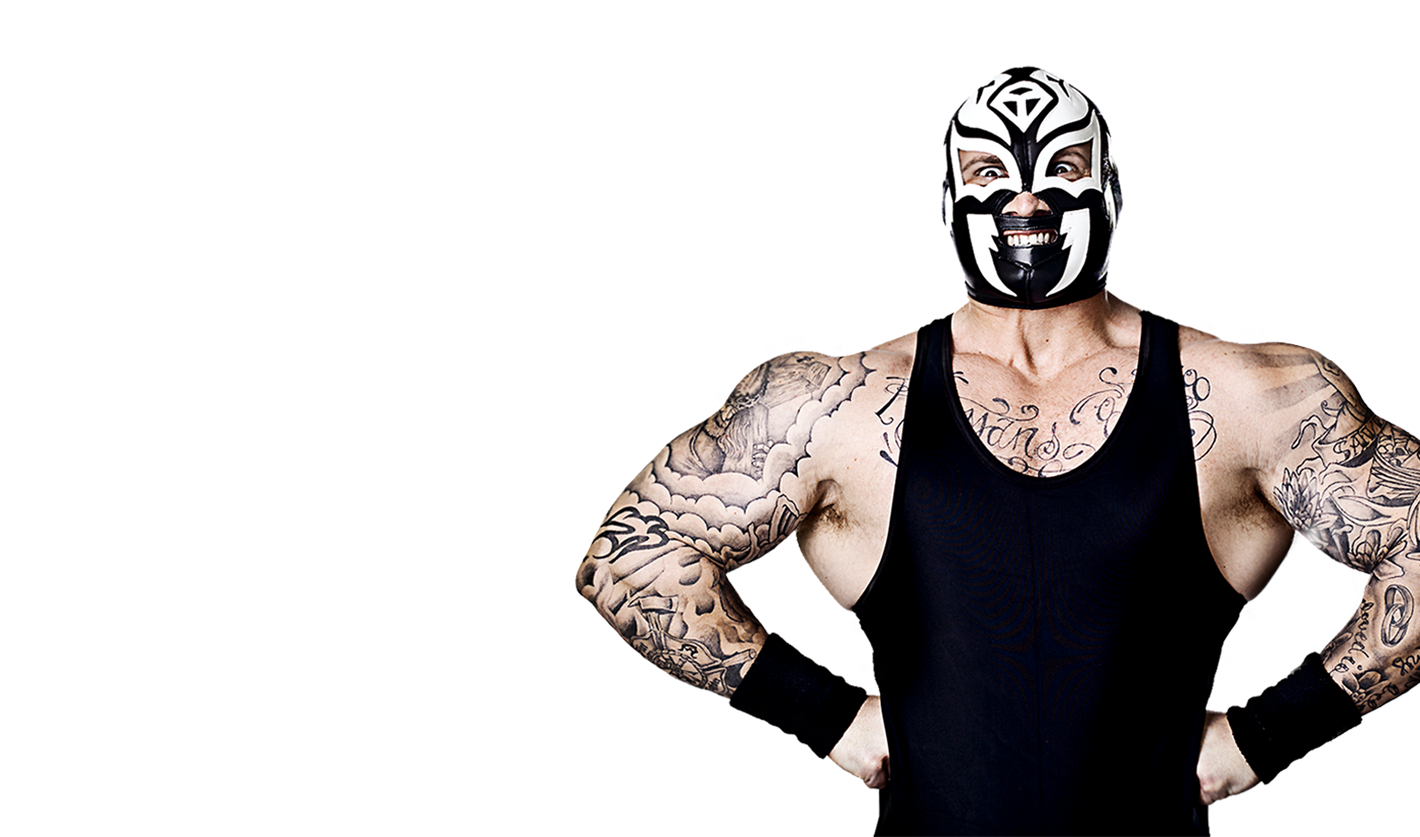
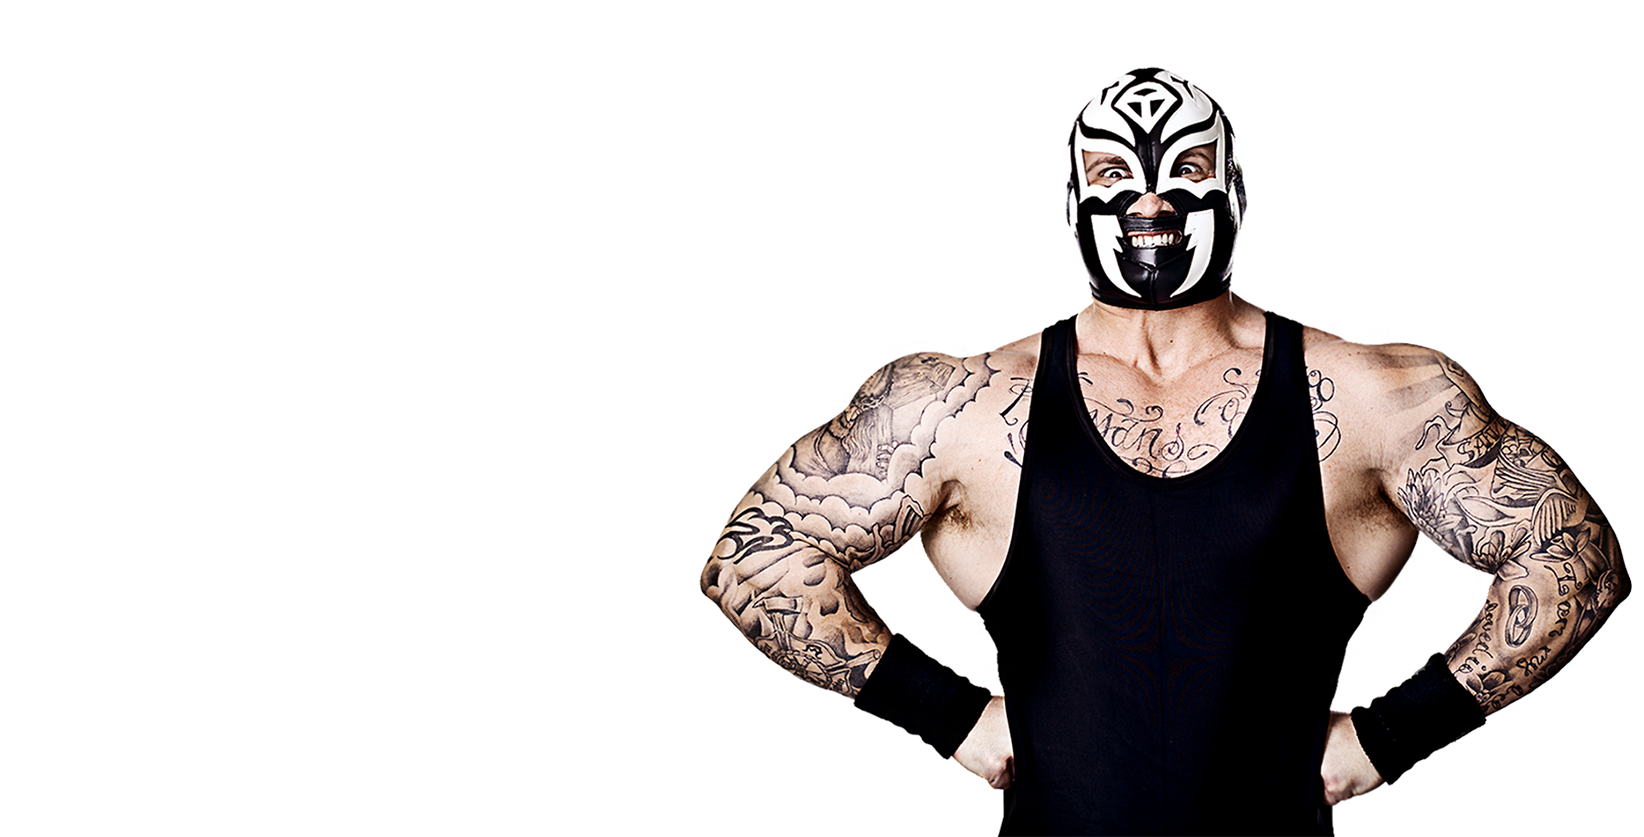
Updated Lucha home image

Changed region(s): [[0.4028, 0.0621, 1.0, 1.0], [0.7437, 0.7455, 0.7746, 0.8076]]

diff --git a/site/stylesheets/screen.css b/site/stylesheets/screen.css
@@ -235,7 +235,7 @@ h2.home_headline {
 
 /* line 146 */
 .lucha_home {
-  background: url("../images/lucha_home_large_temp.png") no-repeat top center;
+  background: url("../images/lucha_home_large.png") no-repeat top center;
   margin: 0 auto;
   min-width: 1024px;
   min-height: 837px;

diff --git a/src/stylesheets/screen.sass b/src/stylesheets/screen.sass
@@ -144,7 +144,7 @@ h2.home_headline
   margin: 75px 0 42px 0
   
 .lucha_home
-  background: url('../images/lucha_home_large_temp.png') no-repeat top center
+  background: url('../images/lucha_home_large.png') no-repeat top center
   +centered
   min-width: 1024px
   min-height: 837px
